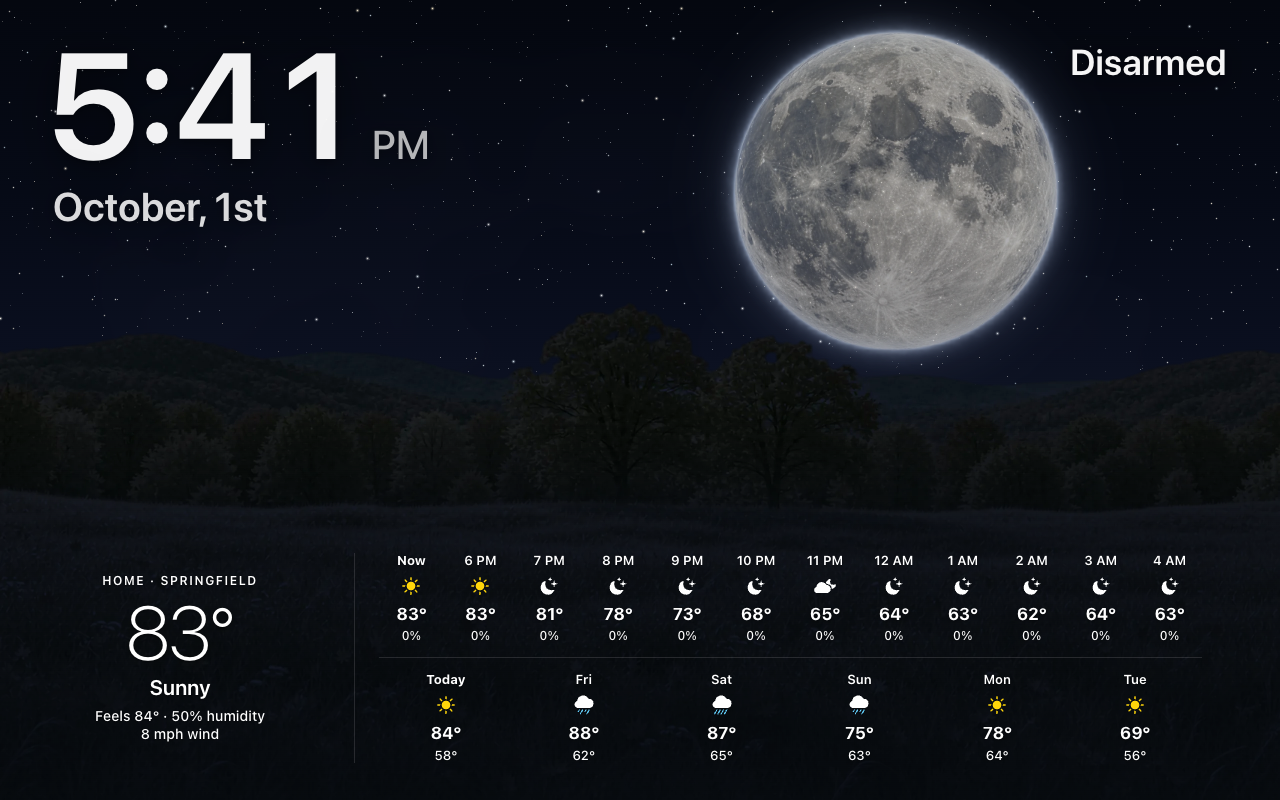
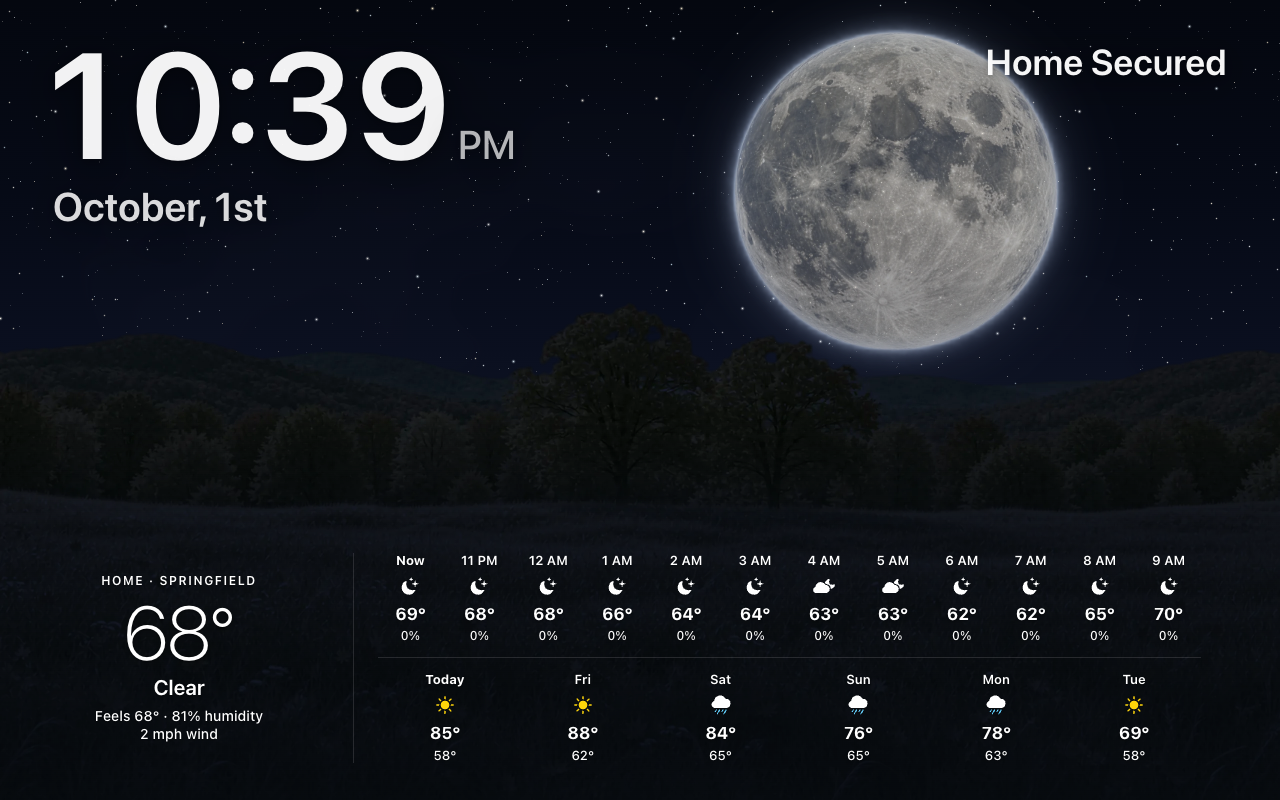
HK Frontend 1.4.3: the screensaver's forecast beside the calendar pane, a clock that lines up with its date, and no jump as the forecast appears

diff --git a/custom_components/hk_frontend/frontend/modules/hk-saver.js b/custom_components/hk_frontend/frontend/modules/hk-saver.js
@@ -65,6 +65,11 @@
   // (or the forecast) take the rest; beside the pane the forecast details
   // stand up, as on a phone, no wider than BAND_STACKED.
   var PANE_W = 400, BAND_STACKED = 680, BAND_PAD_STACKED = 30;
+  // ...since 1.4.3 side by side there too, as on every other screen: today's column this wide (the
+  // tablet's band has 300), the band as wide as the photos' room allows
+  var BAND_NOW_BESIDE = 200, BAND_BESIDE_GUTTER = 30;
+  // the forecast details fade in once in place (addBand)
+  var BAND_REVEAL_MS = 260;
   var PANE_TOP = 74;                       // Home Status sits above the list (at least)
   var PANE_RESET_MS = 45000;               // untouched this long: back to today
 
@@ -515,6 +520,8 @@
     if (paneT) { clearInterval(paneT); paneT = null; }
     if (paneResetT) { clearTimeout(paneResetT); paneResetT = null; }
   }
+  var builtFor = null;
+  function cfgKey() { try { return JSON.stringify(cfg); } catch (e) { return String(Math.random()); } }
   function buildCards(info) {
     var h = hassNow();
     cards = [];
@@ -550,8 +557,12 @@
     if (on || !cfg || !allowed()) return false;
     if (idleT) { clearTimeout(idleT); idleT = null; }
     on = true; startedBy = reason || 'idle'; mx = null; my = null; blockUntil = 0;
-    if (host && host.hasAttribute('blocking')) teardown();
-    if (!host) build();
+    // BUILT FOR OTHER SETTINGS: its cards were set up for them (Home Status
+    // sized for the calendar pane, or for the corner), and a host kept from
+    // an earlier start kept them -- the pane turned off on HK Settings left
+    // Home Status small, halfway along the top (2026-10-01). Built again.
+    if (host && (host.hasAttribute('blocking') || builtFor !== cfgKey())) teardown();
+    if (!host) { build(); builtFor = cfgKey(); }
     host.style.setProperty('--fade', FADE_IN_MS + 'ms');
     if (cfg.zoom) host.setAttribute('zoom', ''); else host.removeAttribute('zoom');
     host.removeAttribute('blocking');
@@ -889,6 +900,8 @@
     if (paneCard && (paneCard.style.zoom || '1') !== String(z)) paneCard.style.zoom = z === 1 ? '' : String(z);
     if (w === paneW && host.style.getPropertyValue && host.style.getPropertyValue('--hk-pane-w')) return;
     paneW = w;
+    // a new width for the pane is a new room for the band beside it
+    if (fband && fband.isConnected) setTimeout(function () { if (fband && fband.isConnected) centerBand(fband); }, 0);
     var W = window.innerWidth || 0, px = function (n) { return Math.round(n * z) + 'px'; };
     host.style.setProperty('--hk-pane-w', w + 'px');
     // one margin for everything in the pane: the list, Home Status, its foot
@@ -946,15 +959,33 @@
       if (!wid) return;
       try {
         var el = document.createElement(tag);
-        // beside the calendar pane: stood up, as on a phone, with fewer hours
+        // beside the calendar pane: today beside the hours and days, as on
+        // the other screens, its column slimmer and fewer hours
         el.setConfig({ type: 'custom:' + tag, entity: wid, hours: cfg.calendar ? 8 : 12, days: 6, plain: true,
-                       narrow: !!cfg.calendar });
+                       now_width: cfg.calendar ? BAND_NOW_BESIDE : undefined });
         if (h) el.hass = h;
+        // NOT SEEN UNTIL IT IS IN PLACE: it can only be centred once it has
+        // drawn (centerBand measures it), so it drew ~25 px off and jumped
+        // a quarter second into the slide -- and beside the calendar pane
+        // again when it redrew for its width (2026-10-01). Hidden until it is
+        // where it stays, then faded in.
+        el.style.opacity = '0';
         box.appendChild(el);
         cards.push(el);
         fband = el;
-        // centred as soon as it has drawn, not at the next tick
-        setTimeout(function () { if (fband === el && el.isConnected) centerBand(el); }, 250);
+        var placed = function () {
+          if (fband !== el || !el.isConnected) return;
+          centerBand(el);
+          el.style.transition = 'opacity ' + BAND_REVEAL_MS + 'ms ease';
+          el.style.opacity = '';
+        };
+        // centred as soon as it has drawn, not at the next tick -- beside the
+        // pane once more after it has redrawn for its width
+        setTimeout(function () {
+          if (fband !== el || !el.isConnected) return;
+          centerBand(el);
+          setTimeout(placed, cfg && cfg.calendar ? 400 : 0);
+        }, 250);
       } catch (e) { console.warn('[hk-saver] forecast band', e); }
     };
     if (customElements.get(tag)) make();
@@ -968,6 +999,9 @@
   function centerBand(card) {
     var sr = card.shadowRoot, W = window.innerWidth || 0, H = window.innerHeight || 0;
     if (!sr || !W) return;
+    // THE PANE'S WIDTH FIRST: centred before the pane had measured itself,
+    // the band was centred on the whole screen and ran under the pane
+    if (cfg && cfg.calendar && !paneW) layoutPane();
     // the scale first (a bigger screen: the tablet's band, bigger) -- CSS
     // zoom, so it lays out as on the tablet and takes its scaled room
     var z = scaleOf();
@@ -979,8 +1013,14 @@
     if (box && box.style) {
       if (cfg && cfg.calendar) {
         box.style.height = Math.round(Math.max(0.356 * H, 0.2225 * RW)) + 'px';
-        box.style.padding = BAND_PAD_STACKED + 'px 0';
-        card.style.maxWidth = BAND_STACKED + 'px';
+        box.style.padding = '';
+        var mw = Math.max(BAND_STACKED, Math.round(RW / z) - 2 * BAND_BESIDE_GUTTER) + 'px';
+        if (card.style.maxWidth !== mw) {
+          card.style.maxWidth = mw;
+          // the band redraws its columns for the new width a moment later
+          // (its own ResizeObserver): centre it again once it has
+          setTimeout(function () { if (fband === card && card.isConnected) centerBand(card); }, 350);
+        }
       } else {
         box.style.height = ''; box.style.padding = ''; card.style.maxWidth = '';
       }

diff --git a/custom_components/hk_frontend/frontend/cards/hk-weather.js b/custom_components/hk_frontend/frontend/cards/hk-weather.js
@@ -628,9 +628,16 @@
                   function (el, html) { el.innerHTML = html; };
         if (this._lastL !== l) { this._lastL = l; put(this._e.left, l); this._fitWx(); }
         if (this._lastR !== r) { this._lastR = r; put(this._e.right, r); }
-        // The same optical left edge as the screensaver clock.
+        // The same optical left edge as the screensaver clock -- measured
+        // again as the header settles, as the clock card's is (_align)
         if (H && H.clockShift && !this._aligning) {
           var s = H.clockShift(this._e.left), self = this;
+          if (!this._settle) {
+            this._settle = true;
+            [400, 1500, 4000].forEach(function (ms) {
+              setTimeout(function () { if (self.isConnected) self.requestUpdate(); }, ms);
+            });
+          }
           if (s === null) {
             if (document.fonts && !this._fontWait) {
               this._fontWait = true;
@@ -877,7 +884,9 @@
           // but its hourly tracks come out 53.5px instead of 40px, because the
           // left column is ~48px narrower than it should be. Measure it; do
           // not judge it by looking.
-          '.wrap{display:grid;grid-template-columns:300px 1px minmax(0,1fr);',
+          // the left track: 300px, or the card's `now_width` (the
+          // screensaver's band beside its calendar pane: 200)
+          '.wrap{display:grid;grid-template-columns:var(--hk-now-w,300px) 1px minmax(0,1fr);',
           '  column-gap:24px;align-items:stretch;width:100%;min-width:0}',
           // LEFT: the centred stack. The 76px numeral at weight 200 is the
           // signature of the whole page and is only possible because
@@ -973,6 +982,10 @@
         // it has (a layout read, and _sigOf runs on every hass push).
         return this._w != null ? this._w : this.clientWidth;
       }
+      // everything beside the strips when side by side: 48 of padding, the
+      // left track, 24 + 1 + 24 of gap and rule (397 at the usual 300)
+      _nowW() { var n = Number((this._config || {}).now_width); return n >= 120 && n <= 400 ? n : 300; }
+      _side() { return 97 + this._nowW(); }
       _narrow() {
         var c = this._config || {};
         // `narrow: true`: stood up whatever the width (the screensaver's
@@ -980,12 +993,12 @@
         if (c.narrow === true) { return true; }
         var w = this._width();
         if (!w) { return false; }
-        return (w - 397) < (Number(c.min_hour_col) || 40);
+        return (w - this._side()) < (Number(c.min_hour_col) || 40);
       }
       _fit(max, minCol) {
         var w = this._width();
         if (!w) { return max; }                 // pre-layout: cap, then correct
-        var avail = this._narrow() ? w - 48 : w - 397;
+        var avail = this._narrow() ? w - 48 : w - this._side();
         if (avail <= 0) { return 1; }
         // n columns take n*minCol + (n-1)*GAP, so n = (avail + GAP) / (minCol + GAP)
         var n = Math.floor((avail + 4) / (minCol + 4));
@@ -1236,7 +1249,8 @@
         };
 
         this._root.innerHTML =
-          '<ha-card class="band' + (cfg.plain ? ' plain' : '') + '"><div class="wrap' + (narrow ? ' narrow' : '') + '">' +
+          '<ha-card class="band' + (cfg.plain ? ' plain' : '') + '"><div class="wrap' + (narrow ? ' narrow' : '') + '"' +
+          (this._nowW() !== 300 ? ' style="--hk-now-w:' + this._nowW() + 'px"' : '') + '>' +
             '<div class="now">' +
               '<div class="place">' + esc(cfg.place || this._place()) + '</div>' +
               '<div class="temp">' + (t !== null ? Math.round(t) : '--') + '°</div>' +
@@ -1466,6 +1480,16 @@
       _align() {
         var H = window.hkHeader, self = this;
         if (!H || !H.clockShift || this._aligning) return;
+        // MEASURED AGAIN AS IT SETTLES: the first measure can come while the
+        // clock is still being placed (the screensaver sizes it just after),
+        // and the next chance was the next minute's redraw -- the time sat
+        // 17 px off the date's edge until then (2026-10-01)
+        if (!this._settle) {
+          this._settle = true;
+          [400, 1500, 4000].forEach(function (ms) {
+            setTimeout(function () { if (self.isConnected) self._align(); }, ms);
+          });
+        }
         var s = H.clockShift(this._root);
         if (s === null) {                              // font still loading
           if (document.fonts && !this._fontWait) {
@@ -1557,7 +1581,8 @@
         C.section('Layout', [
           { type: 'grid', name: '', schema: [
             { name: 'min_hour_col', selector: { number: { min: 20, max: 120, mode: 'box' } } },
-            { name: 'min_day_col', selector: { number: { min: 20, max: 160, mode: 'box' } } }
+            { name: 'min_day_col', selector: { number: { min: 20, max: 160, mode: 'box' } } },
+            { name: 'now_width', selector: { number: { min: 120, max: 400, mode: 'box' } } }
           ] },
           { name: 'plain', selector: { boolean: {} } },
           { name: 'narrow', selector: { boolean: {} } }

diff --git a/custom_components/hk_frontend/frontend/modules/hk-header.js b/custom_components/hk_frontend/frontend/modules/hk-header.js
@@ -649,6 +649,32 @@
   // (canvas has no font-variant-numeric). Returns null while the font is still
   // loading, so the caller can try again rather than bake in a fallback face.
   var inkCache = {};
+  // IS THE FACE THE TEXT ASKS FOR IN? A measurement taken with the fallback
+  // face is right for the fallback and ~17 px wrong for SF Pro -- and it was
+  // kept: the clock sat off the date's edge until its next redraw, up to a
+  // minute (2026-10-01). Such a measurement is used but not kept, and when a
+  // font finishes loading (below) everything is measured again.
+  function faceIn(family) {
+    var F = document.fonts;
+    if (!F || typeof F.forEach !== 'function') return true;
+    var bare = function (s) { return String(s || '').trim().replace(/^["']|["']$/g, '').toLowerCase(); };
+    var name = bare(String(family || '').split(',')[0]), any = false, ok = false;
+    try {
+      F.forEach(function (f) { if (bare(f.family) === name) { any = true; if (f.status === 'loaded') ok = true; } });
+    } catch (e) { return true; }
+    return !any || ok;              // no face of that name: a system font, nothing to wait for
+  }
+  // A FONT FINISHED LOADING (SF Pro, after the first paint): every measurement
+  // again, and every card redrawn (MODULE WAKE, hk-base.js) -- so each clock
+  // lines up with its date as soon as the face it is drawn in is here.
+  try {
+    if (document.fonts && document.fonts.addEventListener) {
+      document.fonts.addEventListener('loadingdone', function () {
+        inkCache = {};
+        try { window.dispatchEvent(new CustomEvent('hk-module-ready', { detail: { module: 'hk-fonts' } })); } catch (e) { /* no bus */ }
+      });
+    }
+  } catch (e) { /* no font loading API */ }
   function firstInk(el) {
     var text = (el && el.textContent || '').replace(/^\s+/, '');
     if (!text) return 0;
@@ -692,7 +718,7 @@
       ink += (a.getBoundingClientRect().width - b.getBoundingClientRect().width) / 2;
       host.removeChild(a); host.removeChild(b);
     }
-    inkCache[key] = ink;
+    if (faceIn(cs.fontFamily)) inkCache[key] = ink;
     return ink;
   }
   // NEVER THROWS. Safari 27 can raise "SyntaxError: The string did not match

diff --git a/custom_components/hk_frontend/frontend/cards/hk-base.js b/custom_components/hk_frontend/frontend/cards/hk-base.js
@@ -1427,6 +1427,7 @@
     gust: 'Wind gust sensor', sun: 'Sun entity', phase: 'Moon phase sensor',
     uv: 'UV index sensor', hours: 'Hours to show', days: 'Days to show',
     min_hour_col: 'Narrowest hour column (px)', min_day_col: 'Narrowest day column (px)',
+    now_width: 'Today’s column width (px)',
     plain: 'No plate (white text, shadowed)', narrow: 'Stood up (as on a phone)',
     place: 'Location label', time_size: 'Time size', ampm_size: 'AM/PM size',
     date_size: 'Date size', date_color: 'Date color', shadow: 'Text shadow',
@@ -1513,6 +1514,7 @@
     speed: 'For Wind.', gust: 'For Wind.', sun: 'For Sunrise / sunset.',
     phase: 'For Moon. Empty: the built-in phase, the same one the live sky draws.', uv: 'For UV index.',
     min_hour_col: 'Hours are dropped rather than squeezed narrower than this.',
+    now_width: 'Today’s conditions, left of the hours and days. 120 to 400; empty is 300.',
     min_day_col: 'Days are dropped rather than squeezed narrower than this.',
     plain: 'Drawn straight on what is behind it, as on the screensaver.',
     narrow: 'Today’s conditions above the hours and the days, whatever the width.',

diff --git a/tests/test_wxcards.js b/tests/test_wxcards.js
@@ -229,6 +229,16 @@ H.run('WEATHER CARDS', [
     H.eq('...six of them', (card._root.__html.split('class="hrule"')[0].match(/<div class="hi">/g) || []).length, 6);
     H.resize(card, 397 + 6 * 44 + 1);
     H.eq('a resize that crosses no boundary does not redraw', card.__renders - r0, 1);
+    // TODAY'S COLUMN, SLIMMER (`now_width`: the screensaver's band beside its
+    // calendar pane): the strips get the room it gives up, side by side
+    var c0 = card._config;
+    card._config = Object.assign({}, c0, { now_width: 200 });
+    H.resize(card, 297 + 8 * 44);
+    H.eq('a 200px today column leaves room for eight 40px hours', card._fit(12, 40), 8);
+    H.eq('...beside it, not stood up', card._narrow(), false);
+    card._config = Object.assign({}, c0, { now_width: 5 });
+    H.eq('a width it cannot use is the usual 300', card._side(), 397);
+    card._config = c0;
     H.detach(card);
     H.eq('detached: the observer is disconnected', H.observed(), 0);
     return H.lifecycle('band', card, house, function (c) { c.hass = house.hass(); });

diff --git a/docs/Card-Library.md b/docs/Card-Library.md
@@ -192,7 +192,7 @@ on, instead of a fixed `entity`.
 | `hk-header-card` | The wall header: clock, date and weather, beside the security summary. Tap the weather for the Weather page, the security summary for the alarm; on a screen with a menu, tap the clock to open the menu. | `weather_path` (default `./weather`), `alarm_path` (default `./alarm`) |
 | `hk-clock-card` | The time and date on their own. | `date_format` (`weekday`, `monthday`), `time_size`, `ampm_size`, `date_size`, `color`, `date_color`, `shadow`, `height`, `padding`, `margin`, `gap` |
 | `hk-weather-strip-card` | The current temperature and conditions on one line. | `entity`, `main_size`, `detail_size`, `glyph_size`, `color`, `dim_color`, `shadow`, `margin`, `tap_action` |
-| `hk-weather-band-card` | Current conditions with an hourly and a daily forecast. | `entity` (required), `hours` (12), `days` (8), `place`, `min_hour_col` (40), `min_day_col` (55), `plain` (no plate, white text), `narrow` (stood up, as on a phone), `tap_action` |
+| `hk-weather-band-card` | Current conditions with an hourly and a daily forecast. | `entity` (required), `hours` (12), `days` (8), `place`, `min_hour_col` (40), `min_day_col` (55), `plain` (no plate, white text), `narrow` (stood up, as on a phone), `now_width` (today’s column, 120 to 400 px; 300), `tap_action` |
 | `hk-weather-tile-card` | A small tile for the wind, sunrise and sunset, the moon, or the UV index. | `variant` (required: `wind`, `sun`, `moon`, `uv`), `caption`, `entity`, `speed`, `gust`, `sun`, `phase`, `uv` |
 | `hk-alert-card` | Severe-weather alerts from the NWS Alerts integration; shows only while one is active. | `entity` (required), `title`, `source`, `icon` |
 

diff --git a/docs/Screensaver-and-Idle.md b/docs/Screensaver-and-Idle.md
@@ -97,8 +97,8 @@ dimmed, and the next one says how soon (“in 46 min”).
 
 - The photos move over beside it, so the middle of each photo stays in view;
   behind the pane is a blurred copy of the photo. On the forecast the pane
-  turns the night sky’s navy, and the forecast stands up beside it, as it
-  does on a phone: today on top, the hours, then the days.
+  turns the night sky’s navy, and the forecast fits beside it: today on the
+  left, the hours and the days beside it, as on the other screens.
 - The pane is one column of what is going on: Home Status at its top (on as
   many lines as it needs, the list starting below it), the events, and at its
   foot what is playing and the running timers. The clock, the date and the
